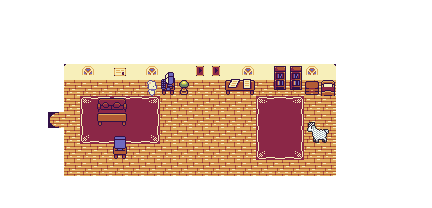
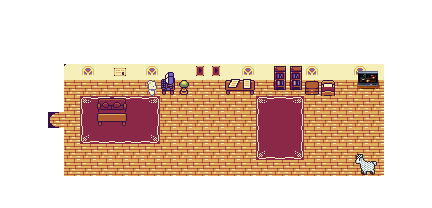
feat:Added the doom but i don't like

Changed region(s): [[0.6921, 0.2885, 0.9028, 0.8654], [0.2407, 0.6346, 0.3009, 0.7788]]

diff --git a/src/game/game.tsx b/src/game/game.tsx
@@ -85,6 +85,16 @@ export default function Game() {
                   imgBoxContainer.style.display = "block";
                   player.isInDialogue = true;
                 }
+
+                if (boundary.name === "Game") {
+                  const imgBox = document.getElementById("ImgBox")!;
+                  imgBox.innerHTML = `<img src="./AssetsGame/doom.png" alt="Foto do Doom" class="imgBox-img" width="1080px"/>`;
+                  const imgBoxContainer = document.querySelector(
+                    ".imgBox-container"
+                  ) as HTMLDivElement;
+                  imgBoxContainer.style.display = "block";
+                  player.isInDialogue = true;
+                }
               });
             }
           }
@@ -180,53 +190,6 @@ export default function Game() {
       k.onKeyRelease(() => {
         stopAnims();
       });
-      k.onKeyDown(() => {
-        const keyMap = [
-          k.isKeyDown("d"),
-          k.isKeyDown("a"),
-          k.isKeyDown("w"),
-          k.isKeyDown("s"),
-        ];
-
-        let nbOfKeyPressed = 0;
-        for (const key of keyMap) {
-          if (key) {
-            nbOfKeyPressed++;
-          }
-        }
-
-        if (nbOfKeyPressed > 1) return;
-
-        if (player.isInDialogue) return;
-        if (keyMap[0]) {
-          player.flipX = false;
-          if (player.curAnim() !== "walk-side") player.play("walk-side");
-          player.direction = "right";
-          player.move(player.speed, 0);
-          return;
-        }
-
-        if (keyMap[1]) {
-          player.flipX = true;
-          if (player.curAnim() !== "walk-side") player.play("walk-side");
-          player.direction = "left";
-          player.move(-player.speed, 0);
-          return;
-        }
-
-        if (keyMap[2]) {
-          if (player.curAnim() !== "walk-up") player.play("walk-up");
-          player.direction = "up";
-          player.move(0, -player.speed);
-          return;
-        }
-
-        if (keyMap[3]) {
-          if (player.curAnim() !== "walk-down") player.play("walk-down");
-          player.direction = "down";
-          player.move(0, player.speed);
-        }
-      });
     });
 
     k.go("main");
@@ -251,8 +214,11 @@ export default function Game() {
         >
           <div id="textbox" className="absolute text-black">
             <p id="dialogue" className="ui-text text-sm md:text-2xl"></p>
-            <div className="btn-container">
-              <button id="close" className="ui-close-btn text-bla">
+            <div className="btn-container flex gap-4">
+              <button id="play" className="ui-play-btn text-black">
+                Jogar
+              </button>
+              <button id="close" className="ui-close-btn text-black">
                 Fechar
               </button>
             </div>

diff --git a/src/components/ui/animated-theme-toggler.tsx b/src/components/ui/animated-theme-toggler.tsx
@@ -1,7 +1,7 @@
 "use client";
 
 import { Moon, SunDim } from "lucide-react";
-import { useState, useRef } from "react";
+import { useState, useRef, useEffect } from "react";
 import { flushSync } from "react-dom";
 import { cn } from "../../lib/utils";
 
@@ -12,6 +12,19 @@ type props = {
 export const AnimatedThemeToggler = ({ className }: props) => {
   const [isDarkMode, setIsDarkMode] = useState<boolean>(false);
   const buttonRef = useRef<HTMLButtonElement | null>(null);
+
+  useEffect(() => {
+    const darkModeMediaQuery = window.matchMedia(
+      "(prefers-color-scheme: dark)"
+    );
+    setIsDarkMode(darkModeMediaQuery.matches);
+    if (darkModeMediaQuery.matches) {
+      document.documentElement.classList.add("dark");
+    } else {
+      document.documentElement.classList.remove("dark");
+    }
+  }, []);
+
   const changeTheme = async () => {
     if (!buttonRef.current) return;
 
@@ -47,7 +60,7 @@ export const AnimatedThemeToggler = ({ className }: props) => {
   };
   return (
     <button ref={buttonRef} onClick={changeTheme} className={cn(className)}>
-      {isDarkMode ? <SunDim /> : <Moon />}
+      {isDarkMode ? <Moon /> : <SunDim />}
     </button>
   );
 };

diff --git a/src/game/utilsGame.ts b/src/game/utilsGame.ts
@@ -29,14 +29,32 @@ export function displayDialogue(text: string, OnDisplayEnd = () => { }) {
         dialogue!.innerHTML = "";
         clearInterval(intervalRef);
         imgBoxContainer.style.display = "none";
+        const imgBox = document.getElementById("ImgBox")!;
+        imgBox.innerHTML = "";
+
+
+
+
 
         closeBtn!.removeEventListener("click", onCloseBtnClick);
-
-
-
     }
 
     closeBtn?.addEventListener("click", onCloseBtnClick);
+
+    const playButton = document.getElementById("play");
+
+    function onPlayButtonClick() {
+        playButton!.style.display = "none";
+        const imgBox = document.getElementById("ImgBox")!;
+        imgBox.innerHTML = `<iframe
+            src="https://playclassic.games/games/first-person-shooter-dos-games-online/play-doom-online/"
+            width="800"
+            height="600">
+            </iframe>
+            `;
+    }
+
+    playButton?.addEventListener("click", onPlayButtonClick);
 
     addEventListener("keypress", (key) => {
         if (key.code === "Enter") {

diff --git a/src/game/constants.ts b/src/game/constants.ts
@@ -18,4 +18,5 @@ Aqui está o meu <a href="https://github.com/PatrickStar-code" target="_blank">G
   photo: "Essa é uma foto.Me fez lembrar de um site para um fotografo que fiz, que tal conferir o <a href='https://arthurcesarfotografia.vercel.app/' target='_blank' className='text-blue-800'>PhotoPortfolio</a>?",
   notebook: "Mais uma prateleira de livros... mas aqui guardo vários diários. Que tal organizar os seus no meu site: <a href='https://notebookly.vercel.app/' target='_blank' className='text-blue-800'>Caderno</a>?",
   me: "Esta é uma foto minha.",
+  Game: "Aqui é minha tv com um pendrive de jogos retrô. Adoro jogar jogos clássicos nas horas vagas! Quer testar ?",
 };

diff --git a/public/AssetsGame/spritesheet_16x16.tsx b/public/AssetsGame/spritesheet_16x16.tsx
@@ -1,0 +1,4 @@
+<?xml version="1.0" encoding="UTF-8"?>
+<tileset version="1.10" tiledversion="1.11.2" name="spritesheet_16x16" tilewidth="16" tileheight="16" tilecount="144" columns="12">
+ <image source="../../../../../Pictures/spritesheet_16x16.png" width="192" height="192"/>
+</tileset>

diff --git a/public/AssetsGame/snes.tsx b/public/AssetsGame/snes.tsx
@@ -1,0 +1,4 @@
+<?xml version="1.0" encoding="UTF-8"?>
+<tileset version="1.10" tiledversion="1.11.2" name="spritesheet_16x16" tilewidth="16" tileheight="16" tilecount="144" columns="12">
+ <image source="spritesheet_16x16.png" width="192" height="192"/>
+</tileset>
